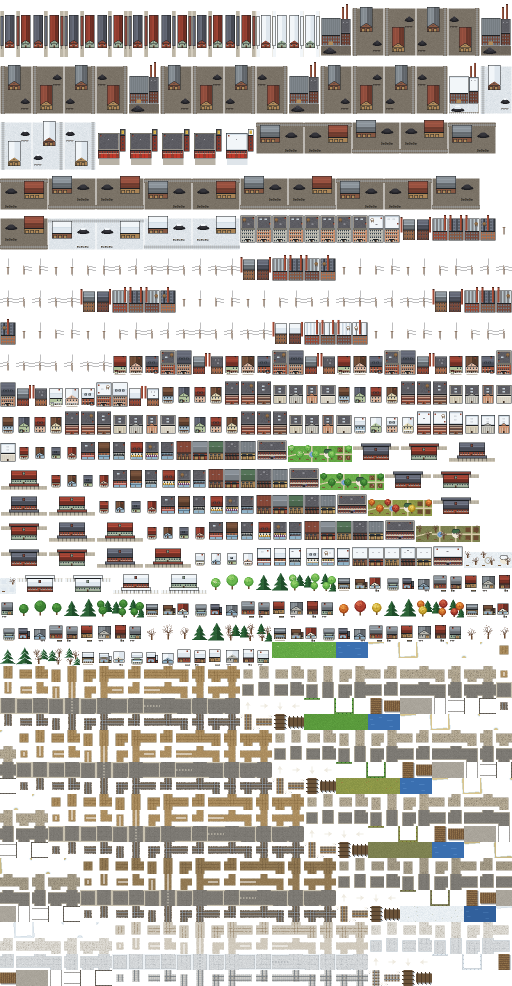
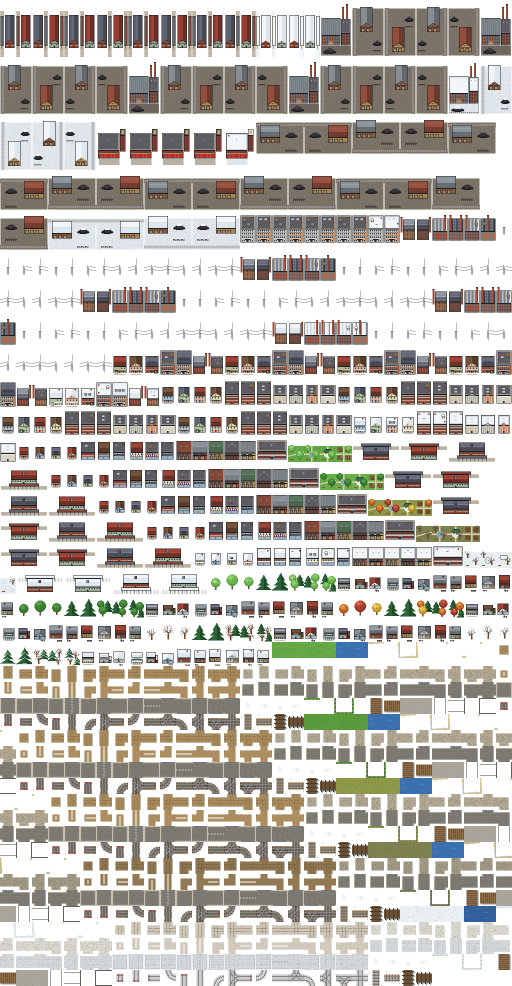
Curved track, proper junctions, and crossings that line up
Bends in the railway now curve round the corner of the tile, the ballast,
sleepers and rails following the curve and meeting the straight track at
the edges. Where a line branches off, the straight carries on with a curve
off it each way; where two lines cross they make a diamond; and a line that
ends has a buffer stop. Trains follow the curves and turn with them.

Level crossings on east to west track were drawn turned from the north to
south ones, which swapped each rail's light and dark sides and shifted them
a pixel, so they didn't meet the track either side. They're mirrored now,
and match.

Claude-Session: https://claude.ai/code/session_014PN7YFA31hhfLMVv5T8Wki

diff --git a/shared/src/commonMain/kotlin/com/rm/infill/map/TrainView.kt b/shared/src/commonMain/kotlin/com/rm/infill/map/TrainView.kt
@@ -4,12 +4,15 @@ import androidx.compose.ui.geometry.Offset
 import androidx.compose.ui.geometry.Size
 import androidx.compose.ui.graphics.Color
 import androidx.compose.ui.graphics.drawscope.DrawScope
+import androidx.compose.ui.graphics.drawscope.rotate
 import com.rm.infill.sim.Balance
 import com.rm.infill.sim.CityMap
 import com.rm.infill.sim.TrainRoute
-import kotlin.math.floor
-import kotlin.math.max
+import kotlin.math.PI
+import kotlin.math.atan2
+import kotlin.math.cos
 import kotlin.math.min
+import kotlin.math.sin
 
 /**
  * Trains along the lines they ran last month: out along the track, a stop at
@@ -43,7 +46,7 @@ internal fun DrawScope.drawTrains(routes: List<TrainRoute>, map: CityMap, camera
                 // Engine, tender, then the cars, each behind the last.
                 val s = if (forward) head - c * CAR_GAP else head + c * CAR_GAP
                 if (s < 0f || s > length) continue
-                val (x, y, along) = pointOn(path, s, map.width)
+                val (x, y, heading) = pointOn(path, s, map.width)
                 if (x < topLeft.x - 1 || y < topLeft.y - 1 || x > bottomRight.x + 1 || y > bottomRight.y + 1) continue
                 val tile = path[min(path.size - 1, (s + 0.5f).toInt())]
                 if (map.road[tile].toInt() != 0) crossings += tile
@@ -52,8 +55,8 @@ internal fun DrawScope.drawTrains(routes: List<TrainRoute>, map: CityMap, camera
                     1 -> Car.Tender
                     else -> if (route.passengers) Car.Coach else FREIGHT[(k * 3 + c) % FREIGHT.size]
                 }
-                car(camera.tileToScreen(x + 0.5f, y + 0.5f, size), t, along, kind, k + c)
-                if (c == 0 && smoke) puffs(camera.tileToScreen(x + 0.5f, y + 0.5f, size), t, time, k * 7 + n)
+                car(camera.tileToScreen(x, y, size), t, heading, kind, k + c)
+                if (c == 0 && smoke) puffs(camera.tileToScreen(x, y, size), t, time, k * 7 + n)
             }
         }
     }
@@ -64,59 +67,79 @@ private enum class Car { Engine, Tender, Coach, Boxcar, Hopper, Flatcar }
 
 private val FREIGHT = listOf(Car.Boxcar, Car.Hopper, Car.Flatcar, Car.Boxcar)
 
-/** A point [s] tiles along [path], as tile x and y, and whether that stretch runs east to west. */
-private fun pointOn(path: IntArray, s: Float, width: Int): Triple<Float, Float, Boolean> {
-    val i = min(path.size - 2, max(0, floor(s).toInt()))
-    val f = s - i
-    val a = path[i]
-    val b = path[i + 1]
-    val ax = (a % width).toFloat()
-    val ay = (a / width).toFloat()
-    val bx = (b % width).toFloat()
-    val by = (b / width).toFloat()
-    return Triple(ax + (bx - ax) * f, ay + (by - ay) * f, ay == by)
+/**
+ * Where [s] tiles along [path] is, as a point on the map in tiles, and which
+ * way the track runs there, in degrees clockwise from east. Each tile is
+ * crossed from the middle of the edge it's entered by to the middle of the
+ * one it's left by: straight through, or round a quarter circle where the
+ * track bends, as it's drawn.
+ */
+private fun pointOn(path: IntArray, s: Float, width: Int): Triple<Float, Float, Float> {
+    val n = path.size
+    val i = (s + 0.5f).toInt().coerceIn(0, n - 1)
+    val u = (s - (i - 0.5f)).coerceIn(0f, 1f)
+    val cx = path[i] % width + 0.5f
+    val cy = path[i] / width + 0.5f
+    fun way(a: Int, b: Int) = (b % width - a % width) to (b / width - a / width)
+    val (ix, iy) = if (i > 0) way(path[i - 1], path[i]) else way(path[i], path[i + 1])
+    val (ox, oy) = if (i < n - 1) way(path[i], path[i + 1]) else ix to iy
+    if (ix == ox && iy == oy) {
+        return Triple(cx + ix * (u - 0.5f), cy + iy * (u - 0.5f), degrees(atan2(iy.toFloat(), ix.toFloat())))
+    }
+    // Round the corner between the edge it came in by and the one it leaves by.
+    val cornerX = cx - ix * 0.5f + ox * 0.5f
+    val cornerY = cy - iy * 0.5f + oy * 0.5f
+    val from = atan2(cy - iy * 0.5f - cornerY, cx - ix * 0.5f - cornerX)
+    var sweep = atan2(cy + oy * 0.5f - cornerY, cx + ox * 0.5f - cornerX) - from
+    if (sweep > PI) sweep -= (2 * PI).toFloat()
+    if (sweep < -PI) sweep += (2 * PI).toFloat()
+    val a = from + sweep * u
+    // Moving round the circle one way or the other, the track runs square to the radius.
+    val heading = a + if (sweep > 0) (PI / 2).toFloat() else -(PI / 2).toFloat()
+    return Triple(cornerX + 0.5f * cos(a), cornerY + 0.5f * sin(a), degrees(heading))
 }
+
+private fun degrees(radians: Float) = radians * 180f / PI.toFloat()
 
 /** Slow away and slow in, quicker in between. */
 private fun ease(u: Float): Float = u * u * (3 - 2 * u)
 
-private fun DrawScope.car(at: Offset, t: Float, alongX: Boolean, kind: Car, seed: Int) {
+private fun DrawScope.car(at: Offset, t: Float, heading: Float, kind: Car, seed: Int) {
     val long = t * CAR_LENGTH
     val wide = t * 0.36f
-    val size = if (alongX) Size(long, wide) else Size(wide, long)
-    val topLeft = Offset(at.x - size.width / 2, at.y - size.height / 2)
-    when (kind) {
-        Car.Engine -> {
-            drawRect(ENGINE, topLeft, size)
-            // The boiler down the middle, and the chimney.
-            val boiler = if (alongX) Size(long * 0.7f, wide * 0.5f) else Size(wide * 0.5f, long * 0.7f)
-            drawRect(BOILER, Offset(at.x - boiler.width / 2, at.y - boiler.height / 2), boiler)
-            drawCircle(Color.Black, t * 0.07f, at)
+    // Drawn lying east to west, then turned the way the track runs.
+    rotate(heading, at) {
+        fun part(lengthShare: Float, widthShare: Float, colour: Color) {
+            val size = Size(long * lengthShare, wide * widthShare)
+            drawRect(colour, Offset(at.x - size.width / 2, at.y - size.height / 2), size)
         }
-        Car.Tender -> {
-            drawRect(ENGINE, topLeft, size)
-            val coal = if (alongX) Size(long * 0.7f, wide * 0.6f) else Size(wide * 0.6f, long * 0.7f)
-            drawRect(COAL, Offset(at.x - coal.width / 2, at.y - coal.height / 2), coal)
-        }
-        Car.Coach -> {
-            drawRect(COACHES[seed.mod(COACHES.size)], topLeft, size)
-            val roof = if (alongX) Size(long * 0.9f, wide * 0.4f) else Size(wide * 0.4f, long * 0.9f)
-            drawRect(COACH_ROOF, Offset(at.x - roof.width / 2, at.y - roof.height / 2), roof)
-        }
-        Car.Boxcar -> {
-            drawRect(BOXCAR, topLeft, size)
-            val seam = if (alongX) Size(t * 0.03f, wide) else Size(wide, t * 0.03f)
-            drawRect(BOXCAR_SEAM, Offset(at.x - seam.width / 2, at.y - seam.height / 2), seam)
-        }
-        Car.Hopper -> {
-            drawRect(HOPPER, topLeft, size)
-            val load = if (alongX) Size(long * 0.8f, wide * 0.6f) else Size(wide * 0.6f, long * 0.8f)
-            drawRect(COAL, Offset(at.x - load.width / 2, at.y - load.height / 2), load)
-        }
-        Car.Flatcar -> {
-            drawRect(FLATCAR, topLeft, size)
-            val load = if (alongX) Size(long * 0.6f, wide * 0.7f) else Size(wide * 0.7f, long * 0.6f)
-            drawRect(LUMBER, Offset(at.x - load.width / 2, at.y - load.height / 2), load)
+        when (kind) {
+            Car.Engine -> {
+                part(1f, 1f, ENGINE)
+                // The boiler down the middle, and the chimney.
+                part(0.7f, 0.5f, BOILER)
+                drawCircle(Color.Black, t * 0.07f, at)
+            }
+            Car.Tender -> {
+                part(1f, 1f, ENGINE)
+                part(0.7f, 0.6f, COAL)
+            }
+            Car.Coach -> {
+                part(1f, 1f, COACHES[seed.mod(COACHES.size)])
+                part(0.9f, 0.4f, COACH_ROOF)
+            }
+            Car.Boxcar -> {
+                part(1f, 1f, BOXCAR)
+                part(0.04f, 1f, BOXCAR_SEAM)
+            }
+            Car.Hopper -> {
+                part(1f, 1f, HOPPER)
+                part(0.8f, 0.6f, COAL)
+            }
+            Car.Flatcar -> {
+                part(1f, 1f, FLATCAR)
+                part(0.6f, 0.7f, LUMBER)
+            }
         }
     }
 }

diff --git a/tools/gen_tiles.py b/tools/gen_tiles.py
@@ -1264,55 +1264,172 @@ PLATFORM_EDGE = c("#e8e2d4")
 COAL = [c("#1e1e22"), c("#2a2a2f"), c("#35353b")]
 
 
-def sleepers_and_rails(px, mask, look, rng):
-    """Sleepers across, then the two rails along, each way the track goes."""
-    vertical = mask & 5 or mask == 0
-    horizontal = mask & 10
-    lo, hi = TRACK_LO + 1, TRACK_HI - 1
-    if vertical:
-        top = 0 if mask & 1 else TRACK_LO
-        bottom = T - 1 if mask & 4 else TRACK_HI
-        for y in range(top + 1, bottom + 1, 4):
-            for x in range(lo, hi + 1):
-                px[x, y] = SLEEPER[look]
-                if y + 1 <= bottom: px[x, y + 1] = shade(SLEEPER[look], 0.85)
-    if horizontal:
-        left = 0 if mask & 8 else TRACK_LO
-        right = T - 1 if mask & 2 else TRACK_HI
-        for x in range(left + 1, right + 1, 4):
-            for y in range(lo, hi + 1):
-                px[x, y] = SLEEPER[look]
-                if x + 1 <= right: px[x + 1, y] = shade(SLEEPER[look], 0.85)
-    for a in RAIL_AT:
-        if vertical:
-            top = 0 if mask & 1 else TRACK_LO + 1
-            bottom = T - 1 if mask & 4 else TRACK_HI - 1
-            for y in range(top, bottom + 1):
-                px[a, y] = RAIL_STEEL
-                px[a + 1, y] = RAIL_SHADE
-        if horizontal:
-            left = 0 if mask & 8 else TRACK_LO + 1
-            right = T - 1 if mask & 2 else TRACK_HI - 1
-            for x in range(left, right + 1):
-                px[x, a] = RAIL_STEEL
-                px[x, a + 1] = RAIL_SHADE
+# Track is drawn from pieces: straights through the middle of the tile and
+# curves round one of its corners. A bend is one curve; a junction is the
+# straight line with a curve off it each way; a crossing is two straights; a
+# dead end is half a straight with a buffer stop. All the pieces' ballast goes
+# down first, then their sleepers, then their rails, so where they meet the
+# rails lie over everything.
+
+# Curves: the tile corner each goes round, and the two edges it joins, as the
+# way along each edge away from that corner.
+BENDS = {
+    3: ((T, 0), (-1, 0), (0, 1)),   # north and east
+    6: ((T, T), (0, -1), (-1, 0)),  # east and south
+    12: ((0, T), (1, 0), (0, -1)),  # south and west
+    9: ((0, 0), (0, 1), (1, 0)),    # west and north
+}
+BUFFER = c("#8a2f24")
+
+
+class Straight:
+    """Track through the middle of the tile, north to south or east to west, between [lo] and [hi] along it."""
+
+    def __init__(self, vertical, lo=0, hi=T - 1):
+        self.vertical, self.lo, self.hi = vertical, lo, hi
+
+    def _along_across(self, x, y):
+        return (y, x) if self.vertical else (x, y)
+
+    def ballast(self, x, y):
+        along, across = self._along_across(x, y)
+        return self.lo <= along <= self.hi and TRACK_LO <= across <= TRACK_HI
+
+    def sleeper(self, x, y):
+        along, across = self._along_across(x, y)
+        return self.lo <= along <= self.hi and TRACK_LO + 1 <= across <= TRACK_HI - 1 and along % 4 in (1, 2)
+
+    def rail(self, x, y):
+        """RAIL_STEEL, RAIL_SHADE or None. The lit side is west or north, as the sun is."""
+        along, across = self._along_across(x, y)
+        if not (self.lo <= along <= self.hi):
+            return None
+        for a in RAIL_AT:
+            if across == a:
+                return RAIL_STEEL
+            if across == a + 1:
+                return RAIL_SHADE
+        return None
+
+
+class Curve:
+    """Track curving round a corner of the tile, meeting the straight track at both edges it joins."""
+
+    def __init__(self, mask):
+        (self.cx, self.cy), self.a, self.b = BENDS[mask]
+        self.start, self.end = self._rails_at(self.a), self._rails_at(self.b)
+
+    def _rails_at(self, edge):
+        # A rail's two pixels, r and r + 1, have their middle at r + 1.
+        if edge[0] != 0:
+            return sorted(abs(r + 1 - self.cx) for r in RAIL_AT)
+        return sorted(abs(r + 1 - self.cy) for r in RAIL_AT)
+
+    def _polar(self, x, y):
+        vx, vy = x + 0.5 - self.cx, y + 0.5 - self.cy
+        d = math.hypot(vx, vy)
+        t = math.atan2(vx * self.b[0] + vy * self.b[1], vx * self.a[0] + vy * self.a[1]) / (math.pi / 2)
+        return d, t
+
+    def ballast(self, x, y):
+        d, t = self._polar(x, y)
+        return -0.01 <= t <= 1.01 and TRACK_LO + 0.5 <= d <= TRACK_HI + 0.5
+
+    def sleeper(self, x, y):
+        d, t = self._polar(x, y)
+        # About as far apart as on the straight, measured round the middle of the curve.
+        arc = t * (math.pi / 2) * 16
+        return -0.01 <= t <= 1.01 and TRACK_LO + 1 <= d <= TRACK_HI - 1 and arc % 4 < 1.6
+
+    def _lit_nearer(self, edge):
+        # Rails running north to south are lit on the west, east to west on the north.
+        return self.cx == 0 if edge[0] != 0 else self.cy == 0
+
+    def rail(self, x, y):
+        d, t = self._polar(x, y)
+        if not (-0.01 <= t <= 1.01):
+            return None
+        for k in range(2):
+            c = self.start[k] + (self.end[k] - self.start[k]) * t
+            if abs(d - c) < 1.0:
+                edge = self.a if t < 0.5 else self.b
+                return RAIL_STEEL if (d < c) == self._lit_nearer(edge) else RAIL_SHADE
+        return None
+
+
+def pieces(mask):
+    """The pieces of track for a tile joined to the neighbours in [mask]."""
+    n, e, s_, w = mask & 1, mask & 2, mask & 4, mask & 8
+    joins = bin(mask).count("1")
+    if mask in BENDS:
+        return [Curve(mask)]
+    if joins == 4:
+        return [Straight(True), Straight(False)]
+    if joins == 3:
+        # The straight line, and a curve off it each way to the branch.
+        if n and s_:
+            return [Straight(True), Curve(3 if e else 9), Curve(6 if e else 12)]
+        return [Straight(False), Curve(3 if n else 6), Curve(9 if n else 12)]
+    if mask in (5, 10):
+        return [Straight(mask == 5)]
+    # A dead end, or track on its own: half a straight, or a short one, with buffer stops.
+    if n:
+        return [Straight(True, 0, TRACK_HI)]
+    if s_:
+        return [Straight(True, TRACK_LO, T - 1)]
+    if e:
+        return [Straight(False, TRACK_LO, T - 1)]
+    if w:
+        return [Straight(False, 0, TRACK_HI)]
+    return [Straight(True, TRACK_LO, TRACK_HI)]
 
 
 def track(look, mask):
     img = Image.new("RGBA", (T, T), (0, 0, 0, 0))
     px = img.load()
     rng = random.Random(6600 + mask)
-    inside = road_shape(mask, TRACK_LO, TRACK_HI)
+    parts = pieces(mask)
+    ballast = [[any(p.ballast(x, y) for p in parts) for x in range(T)] for y in range(T)]
+
+    def on(x, y):
+        if not (0 <= x < T and 0 <= y < T):
+            # Past the edge the track goes on only where it's joined.
+            if y < 0: return bool(mask & 1) and TRACK_LO <= x <= TRACK_HI
+            if x >= T: return bool(mask & 2) and TRACK_LO <= y <= TRACK_HI
+            if y >= T: return bool(mask & 4) and TRACK_LO <= x <= TRACK_HI
+            return bool(mask & 8) and TRACK_LO <= y <= TRACK_HI
+        return ballast[y][x]
+
     cols = BALLAST[look]
     for y in range(T):
         for x in range(T):
-            if not inside(x, y):
+            if not ballast[y][x]:
                 continue
-            if near_edge(inside, x, y, 1) and rng.random() < 0.4:
+            if not (on(x - 1, y) and on(x + 1, y) and on(x, y - 1) and on(x, y + 1)) and rng.random() < 0.4:
                 continue  # a ragged edge to the ballast
             r = rng.random()
             px[x, y] = cols[0] if r < 0.6 else cols[1] if r < 0.85 else cols[2]
-    sleepers_and_rails(px, mask, look, rng)
+    for y in range(T):
+        for x in range(T):
+            if any(p.sleeper(x, y) for p in parts):
+                px[x, y] = SLEEPER[look]
+    for y in range(T):
+        for x in range(T):
+            for p in parts:
+                col = p.rail(x, y)
+                if col is not None:
+                    px[x, y] = col
+                    break
+    # Buffer stops across the rails at dead ends.
+    d = ImageDraw.Draw(img)
+    ends = {1: "s", 4: "n", 2: "w", 8: "e", 0: None}
+    if mask in ends:
+        sides = ["n", "s"] if mask == 0 else [ends[mask]]
+        for side in sides:
+            if side == "s": d.rectangle([TRACK_LO + 2, TRACK_HI - 2, TRACK_HI - 2, TRACK_HI - 1], BUFFER)
+            if side == "n": d.rectangle([TRACK_LO + 2, TRACK_LO + 1, TRACK_HI - 2, TRACK_LO + 2], BUFFER)
+            if side == "e": d.rectangle([TRACK_HI - 2, TRACK_LO + 2, TRACK_HI - 1, TRACK_HI - 2], BUFFER)
+            if side == "w": d.rectangle([TRACK_LO + 1, TRACK_LO + 2, TRACK_LO + 2, TRACK_HI - 2], BUFFER)
     return img
 
 
@@ -1333,7 +1450,8 @@ def crossing(look, vertical):
         d.line([cx - 2, cy - 2, cx + 2, cy + 2], TRIM)
         d.line([cx - 2, cy + 2, cx + 2, cy - 2], TRIM)
         d.point((cx, cy + 3), OUTLINE)
-    return img if vertical else img.rotate(90)
+    # Mirrored across the diagonal rather than turned, so each rail keeps its light side where the track has it.
+    return img if vertical else img.transpose(Image.Transpose.TRANSPOSE)
 
 
 def trestle(vertical):
